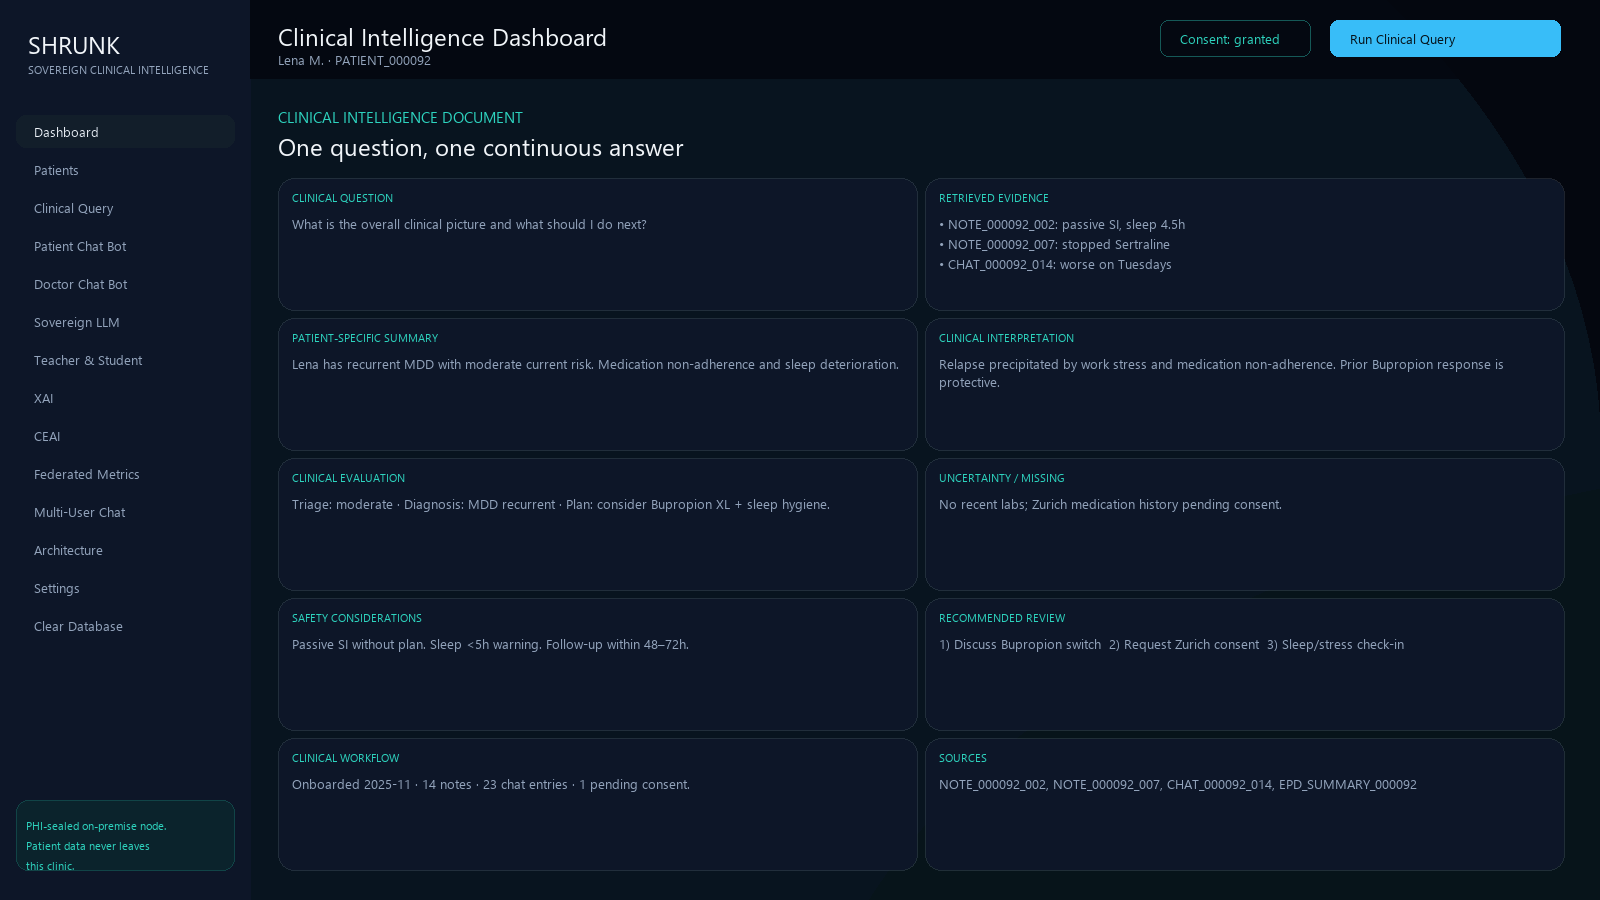
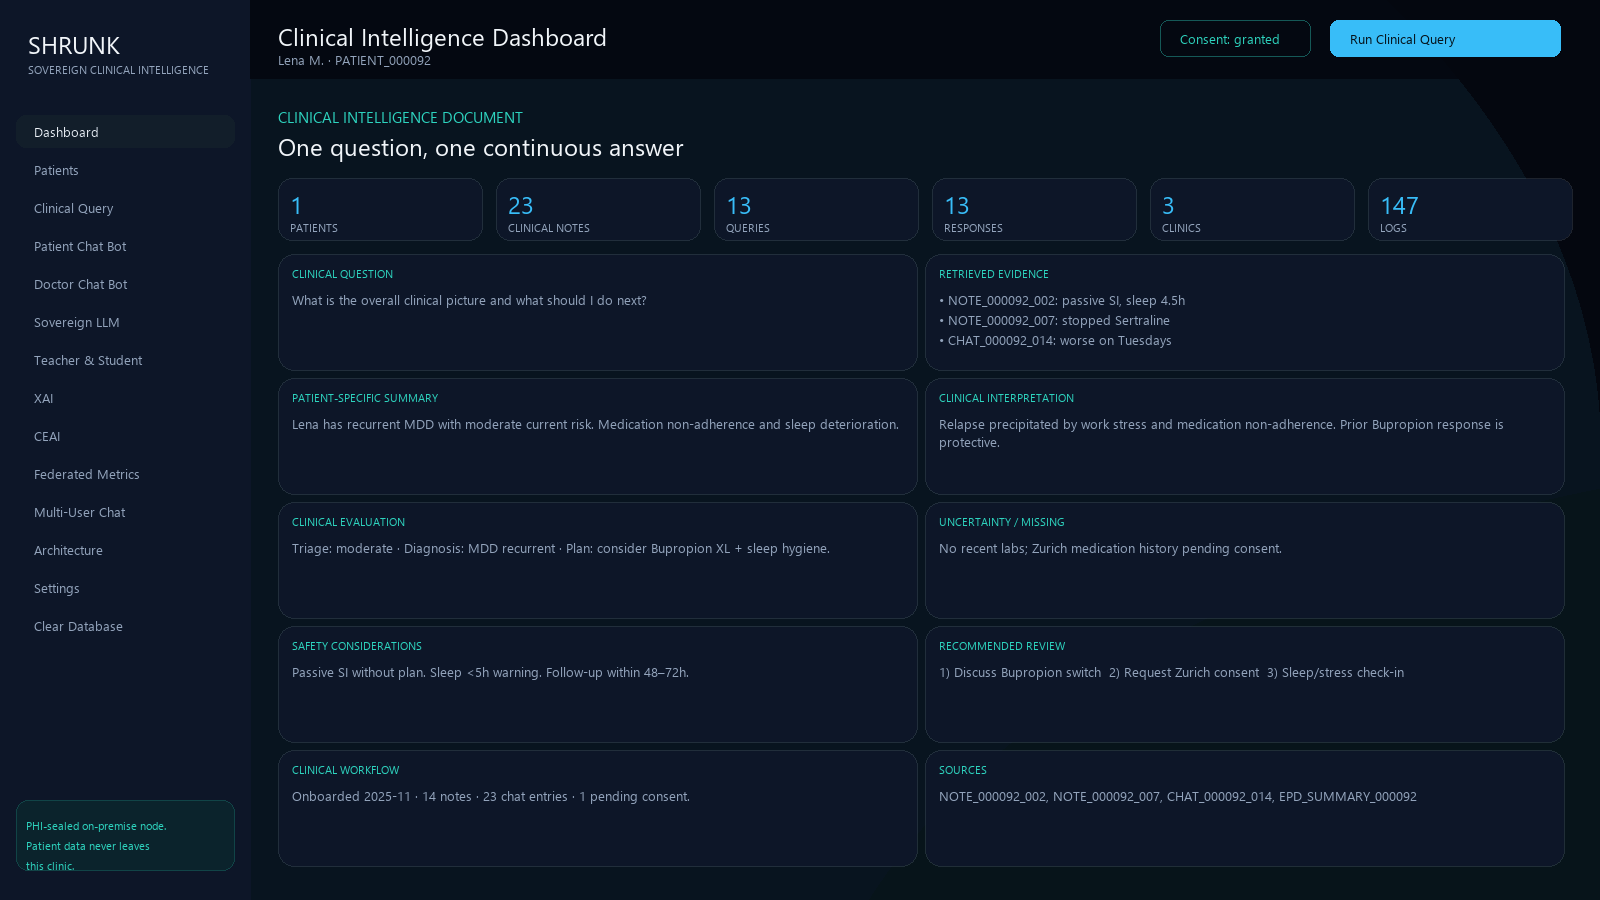
Add stats row to dashboard and regenerate screenshot.

diff --git a/dashboard/index.html b/dashboard/index.html
@@ -235,6 +235,14 @@ footer { padding: 18px 30px; border-top: 1px solid var(--line); color: var(--tex
       <section class="panel active" id="intelligence">
         <div class="kicker">Clinical Intelligence Document</div>
         <h2>One question, one continuous answer</h2>
+        <div class="stats-grid" style="margin-bottom:18px;">
+          <div class="stat-card"><div class="value" id="stPatients">0</div><div class="label">Patients</div></div>
+          <div class="stat-card"><div class="value" id="stNotes">0</div><div class="label">Clinical Notes</div></div>
+          <div class="stat-card"><div class="value" id="stQueries">0</div><div class="label">Queries</div></div>
+          <div class="stat-card"><div class="value" id="stResponses">0</div><div class="label">Responses</div></div>
+          <div class="stat-card"><div class="value" id="stClinics">0</div><div class="label">Federated Clinics</div></div>
+          <div class="stat-card"><div class="value" id="stLogs">0</div><div class="label">System Logs</div></div>
+        </div>
         <div class="document-grid" id="docGrid"></div>
       </section>
 

diff --git a/dashboard/generate_screenshot.py b/dashboard/generate_screenshot.py
@@ -102,13 +102,23 @@ mh = H - header_h - 56
 draw.text((mx, my), 'CLINICAL INTELLIGENCE DOCUMENT', font=font_kicker, fill=accent)
 draw.text((mx, my+24), 'One question, one continuous answer', font=font_title, fill=text)
 
+# stats row
+stats = [('Patients','1'),('Clinical Notes','23'),('Queries','13'),('Responses','13'),('Clinics','3'),('Logs','147')]
+stat_w = (mw - (len(stats)-1)*14) // len(stats)
+for i, (label, val) in enumerate(stats):
+    sx = mx + i*(stat_w+14)
+    sy = my + 72
+    draw.rounded_rectangle([sx, sy, sx+stat_w, sy+62], radius=14, fill=surface, outline=line)
+    draw.text((sx+12, sy+10), val, font=font_title, fill=primary)
+    draw.text((sx+12, sy+42), label.upper(), font=font_tiny, fill=muted)
+
 # grid of 10 mini cards
 cols = 2
 rows = 5
 card_w = (mw - 16) // cols
-card_h = (mh - 90 - 16) // rows
+card_h = (mh - 90 - 16 - 78) // rows
 x = mx
-y = my + 72
+y = my + 148
 blocks = [
     ('Clinical Question', 'What is the overall clinical picture and what should I do next?'),
     ('Retrieved Evidence', '• NOTE_000092_002: passive SI, sleep 4.5h\n• NOTE_000092_007: stopped Sertraline\n• CHAT_000092_014: worse on Tuesdays'),
